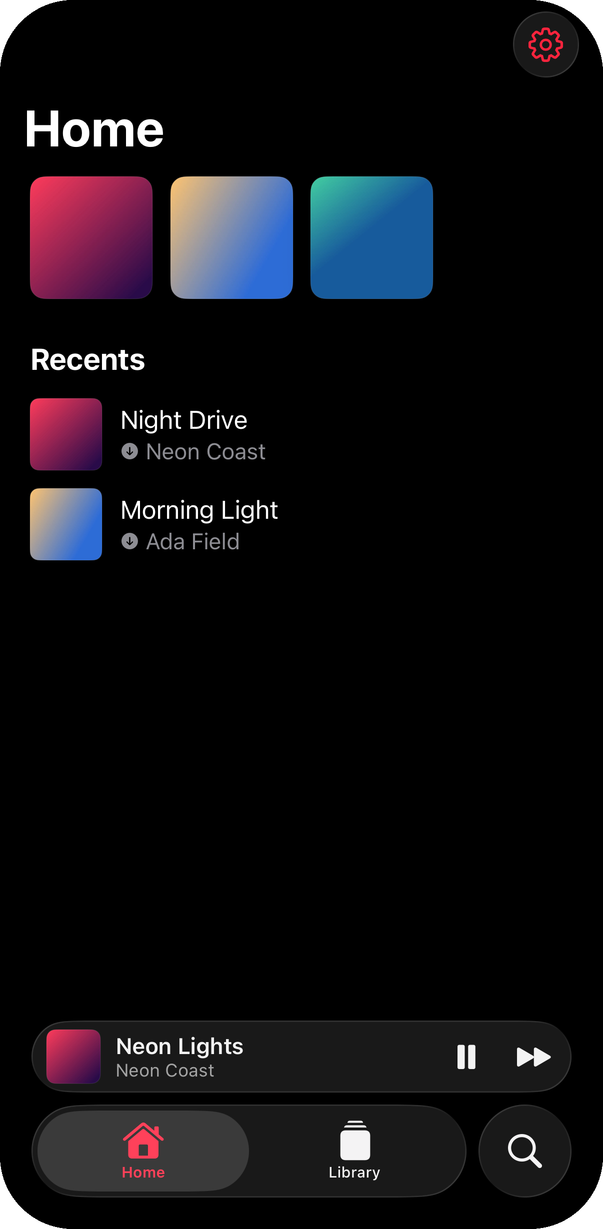
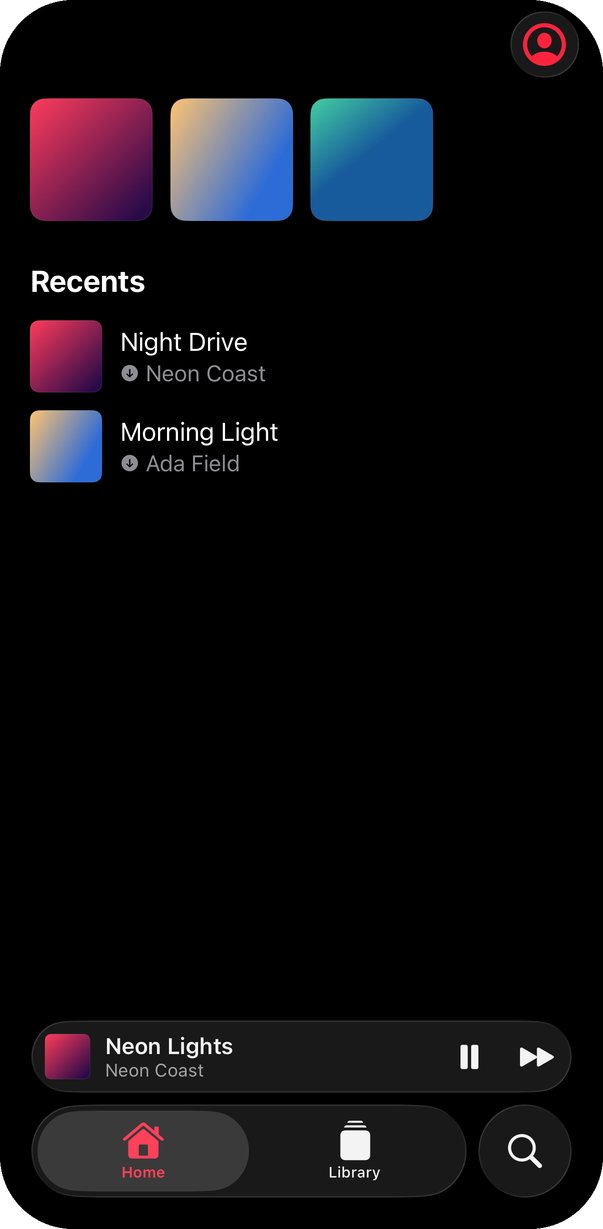
Faster UI tests: own test library, one launch per run, skip unchanged builds
Tests read tests/library/Music, so a real library in tests/fixtures (now
ignored) no longer slows or breaks them. The app launches once and a
test-only network-aza-music://reset link puts it back on Home between tests.
Waits poll every 0.1s instead of XCTest's ~1s. scripts/test.sh builds only
when sources changed. Also: account button on every tab, tighter mini player.

diff --git a/tests/Shared/MusicUITestCase.swift b/tests/Shared/MusicUITestCase.swift
@@ -5,24 +5,34 @@ import XCTest
 class MusicUITestCase: XCTestCase {
     var app: XCUIApplication!
 
-    static var fixtures: String {
+    /// The small generated library from tests/make-fixtures.sh.
+    static var library: String {
         URL(fileURLWithPath: #filePath)
             .deletingLastPathComponent()
             .deletingLastPathComponent()
-            .appendingPathComponent("fixtures/Music")
+            .appendingPathComponent("library/Music")
             .path
     }
 
+    /// One launch serves every test; between tests the app is reset in place.
+    private static var running: XCUIApplication?
+
     override func setUpWithError() throws {
         continueAfterFailure = false
+        if let app = Self.running, app.state == .runningForeground {
+            self.app = app
+            #if os(iOS)
+            XCUIDevice.shared.system.open(URL(string: "network-aza-music://reset")!)
+            let home = app.tabBars.buttons["Home"].firstMatch
+            XCTAssertTrue(poll(5) { home.isSelected && home.isHittable }, "reset didn't land on Home")
+            #endif
+            return
+        }
         app = XCUIApplication()
         // Pairs only: AppKit reads `-key value`, and a bare flag before a pair hides the window.
-        app.launchArguments = ["-musicFolder", Self.fixtures, "-uiTesting", "YES"]
+        app.launchArguments = ["-musicFolder", Self.library, "-uiTesting", "YES"]
         app.launch()
-    }
-
-    override func tearDownWithError() throws {
-        app.terminate()
+        Self.running = app
     }
 
     func el(_ id: String) -> XCUIElement {
@@ -33,26 +43,33 @@ class MusicUITestCase: XCTestCase {
         app.staticTexts.matching(NSPredicate(format: "label == %@ OR value == %@", label, label)).firstMatch
     }
 
+    /// Checks every 0.1s. XCTest's own waits check about once a second, which made every step cost a second.
+    func poll(_ timeout: TimeInterval, _ done: () -> Bool) -> Bool {
+        let end = Date().addingTimeInterval(timeout)
+        while !done() {
+            if Date() > end { return false }
+            RunLoop.current.run(until: Date().addingTimeInterval(0.1))
+        }
+        return true
+    }
+
     @discardableResult
-    func wait(_ e: XCUIElement, _ timeout: TimeInterval = 10, file: StaticString = #filePath, line: UInt = #line) -> XCUIElement {
-        XCTAssertTrue(e.waitForExistence(timeout: timeout), "\(e) never appeared", file: file, line: line)
+    func wait(_ e: XCUIElement, _ timeout: TimeInterval = 5, file: StaticString = #filePath, line: UInt = #line) -> XCUIElement {
+        XCTAssertTrue(poll(timeout) { e.exists }, "\(e) never appeared", file: file, line: line)
         return e
     }
 
     func waitGone(_ e: XCUIElement, _ timeout: TimeInterval = 5, file: StaticString = #filePath, line: UInt = #line) {
-        let p = expectation(for: NSPredicate(format: "exists == false"), evaluatedWith: e)
-        XCTAssertEqual(XCTWaiter.wait(for: [p], timeout: timeout), .completed, "\(e) still visible", file: file, line: line)
+        XCTAssertTrue(poll(timeout) { !e.exists }, "\(e) still visible", file: file, line: line)
     }
 
     /// Waits until an element's label (or value) equals `expected`.
-    func waitLabel(_ e: XCUIElement, _ expected: String, _ timeout: TimeInterval = 8, file: StaticString = #filePath, line: UInt = #line) {
-        let p = expectation(for: NSPredicate(format: "label == %@ OR value == %@", expected, expected), evaluatedWith: e)
-        let r = XCTWaiter.wait(for: [p], timeout: timeout)
-        XCTAssertEqual(r, .completed, "\(e.identifier) is “\(e.label)” / “\(String(describing: e.value))”, wanted “\(expected)”", file: file, line: line)
+    func waitLabel(_ e: XCUIElement, _ expected: String, _ timeout: TimeInterval = 5, file: StaticString = #filePath, line: UInt = #line) {
+        let ok = poll(timeout) { e.exists && (e.label == expected || e.value as? String == expected) }
+        XCTAssertTrue(ok, "\(e.identifier) is “\(e.label)” / “\(String(describing: e.value))”, wanted “\(expected)”", file: file, line: line)
     }
 
     func waitValue(_ e: XCUIElement, _ expected: String, _ timeout: TimeInterval = 5, file: StaticString = #filePath, line: UInt = #line) {
-        let p = expectation(for: NSPredicate(format: "value == %@", expected), evaluatedWith: e)
-        XCTAssertEqual(XCTWaiter.wait(for: [p], timeout: timeout), .completed, "\(e.identifier) value is \(String(describing: e.value)), wanted \(expected)", file: file, line: line)
+        XCTAssertTrue(poll(timeout) { e.exists && e.value as? String == expected }, "\(e.identifier) value is \(String(describing: e.value)), wanted \(expected)", file: file, line: line)
     }
 }

diff --git a/iOS/MusicApp.swift b/iOS/MusicApp.swift
@@ -41,25 +41,21 @@ struct RootView: View {
             Tab("Home", systemImage: "house.fill", value: .home) {
                 NavigationStack(path: $homePath) {
                     HomeView()
-                        .toolbar {
-                            ToolbarItem(placement: .topBarTrailing) {
-                                Button { showSettings = true } label: { Image(systemName: "gearshape") }
-                                    .accessibilityLabel("Settings")
-                                    .accessibilityIdentifier("home.settings")
-                            }
-                        }
+                        .accountButton { showSettings = true }
                         .destinations()
                 }
             }
             Tab("Library", systemImage: "square.stack.fill", value: .library) {
                 NavigationStack(path: $libraryPath) {
-                    LibraryView().destinations()
+                    LibraryView()
+                        .accountButton { showSettings = true }
+                        .destinations()
                 }
             }
             Tab(value: .search, role: .search) {
                 NavigationStack(path: $searchPath) {
                     SearchResultsView(search: search)
-                        .navigationTitle("Search")
+                        .accountButton { showSettings = true }
                         .destinations()
                 }
                 .searchable(text: $search.query, prompt: "Search your library")
@@ -94,6 +90,14 @@ struct RootView: View {
             // Deep links and search results open in the tab you're on.
             if model.showNowPlaying { model.showNowPlaying = false } else { openPending() }
         }
+        .onChange(of: model.resetRequested) {
+            showSettings = false
+            search.query = ""
+            homePath = NavigationPath()
+            libraryPath = NavigationPath()
+            searchPath = NavigationPath()
+            tab = .home
+        }
     }
 
     private func openPending() {
@@ -108,6 +112,20 @@ struct RootView: View {
 }
 
 extension View {
+    /// Top-level tabs have no title, just the account button (opens Settings).
+    func accountButton(_ open: @escaping () -> Void) -> some View {
+        toolbar {
+            ToolbarItem(placement: .topBarTrailing) {
+                Button(action: open) {
+                    Image(systemName: "person.crop.circle")
+                        .font(.system(size: 22, weight: .semibold))
+                }
+                .accessibilityLabel("Account and Settings")
+                .accessibilityIdentifier("account")
+            }
+        }
+    }
+
     /// Album/playlist/artist pages and library sections, wherever we navigate from.
     func destinations() -> some View {
         navigationDestination(for: Item.self) { CollectionView(item: $0) }
@@ -123,7 +141,8 @@ struct MiniPlayer: View {
     var body: some View {
         let t = model.player.track
         HStack(spacing: 10) {
-            ArtworkView(url: t?.art, size: placement == .inline ? 28 : 36)
+            // Inset evenly from the pill's top, bottom and leading edge.
+            ArtworkView(url: t?.art, size: placement == .inline ? 24 : 30)
             VStack(alignment: .leading, spacing: 0) {
                 Text(t?.title ?? "Not Playing").font(.subheadline.weight(.semibold)).lineLimit(1)
                     .accessibilityIdentifier("mini.title")
@@ -152,7 +171,8 @@ struct MiniPlayer: View {
                 .accessibilityIdentifier("mini.next")
             }
         }
-        .padding(.horizontal, 10)
+        .padding(.leading, placement == .inline ? 6 : 9)
+        .padding(.trailing, 8)
         .contentShape(Rectangle())
         .animation(.smooth, value: t?.id)
         .disabled(t == nil)

diff --git a/Shared/Core/AppModel.swift b/Shared/Core/AppModel.swift
@@ -184,6 +184,12 @@ final class AppModel {
         let q = URLComponents(url: url, resolvingAgainstBaseURL: false)?.queryItems ?? []
         let value = { (name: String) in q.first { $0.name == name }?.value }
         switch url.host() {
+        case "reset" where Self.isTesting:
+            // UI tests share one launch; this puts the app back on Home, silent and with nothing open.
+            core.pause()
+            showNowPlaying = false
+            theme = .red
+            resetRequested &+= 1
         case "play":
             guard let id = value("id") else { return }
             let item = Item(id: id, kind: Self.kind(of: id), source: id.hasPrefix("local:") ? .local : .spotify, title: "", subtitle: "", art: nil, downloaded: false)
@@ -221,6 +227,9 @@ final class AppModel {
 
     /// Bumped when a deep link asks to open a page.
     var openRequested = 0
+
+    /// Bumped when UI tests reset the app between tests.
+    var resetRequested = 0
 
     static func kind(of id: String) -> ItemKind {
         if id.contains(":album:") { return .album }

diff --git a/tests/iOSUITests/iOSUITests.swift b/tests/iOSUITests/iOSUITests.swift
@@ -43,7 +43,9 @@ final class iOSUITests: MusicUITestCase {
         wait(app.staticTexts["Nothing up next"])
         el("nowPlaying.queue").tap()
         wait(el("nowPlaying.title"))
-        app.swipeDown(velocity: .fast)
+        // Pull down from the grabber, like a person would.
+        let top = app.coordinate(withNormalizedOffset: CGVector(dx: 0.5, dy: 0.08))
+        top.press(forDuration: 0.05, thenDragTo: app.coordinate(withNormalizedOffset: CGVector(dx: 0.5, dy: 0.9)), withVelocity: .fast, thenHoldForDuration: 0)
         waitGone(el("nowPlaying.title"))
     }
 
@@ -66,7 +68,7 @@ final class iOSUITests: MusicUITestCase {
     }
 
     func testSettingsOpenAndAccent() {
-        wait(el("home.settings")).tap()
+        wait(el("account")).tap()
         let blue = wait(el("accent.blue"))
         blue.tap()
         XCTAssertTrue(blue.isSelected)

diff --git a/tests/iOSUITests/DemoFlow.swift b/tests/iOSUITests/DemoFlow.swift
@@ -54,6 +54,7 @@ final class DemoFlow: MusicUITestCase {
         app.swipeDown(velocity: .fast)
 
         app.tabBars.buttons["Search"].tap()
+        shot("search-open")
         let field = wait(app.searchFields.firstMatch)
         field.tap()
         field.typeText("ne")

diff --git a/Shared/Views/HomeView.swift b/Shared/Views/HomeView.swift
@@ -40,7 +40,6 @@ struct HomeView: View {
             .padding(.horizontal, Metrics.page)
             .padding(.bottom, 120)
         }
-        .navigationTitle("Home")
     }
 
     private func pinTile(_ item: Item) -> some View {

diff --git a/Shared/Views/LibraryView.swift b/Shared/Views/LibraryView.swift
@@ -45,7 +45,6 @@ struct LibraryView: View {
             }
         }
         .listStyle(.plain)
-        .navigationTitle("Library")
     }
 }
 

diff --git a/scripts/demo.py b/scripts/demo.py
@@ -8,7 +8,7 @@ ROOT = os.path.dirname(os.path.dirname(os.path.abspath(__file__)))
 SIM = os.environ.get("SIM", "4C675D57-6CF7-4DDA-ACF4-4075857B2010")
 BUNDLE = "network.aza.music"
 DEST = f"platform=iOS Simulator,id={SIM}"
-FIXTURES = os.path.join(ROOT, "tests", "fixtures", "Music")
+FIXTURES = os.path.join(ROOT, "tests", "library", "Music")
 OUT = os.path.join(ROOT, "docs", "screenshots")
 
 
